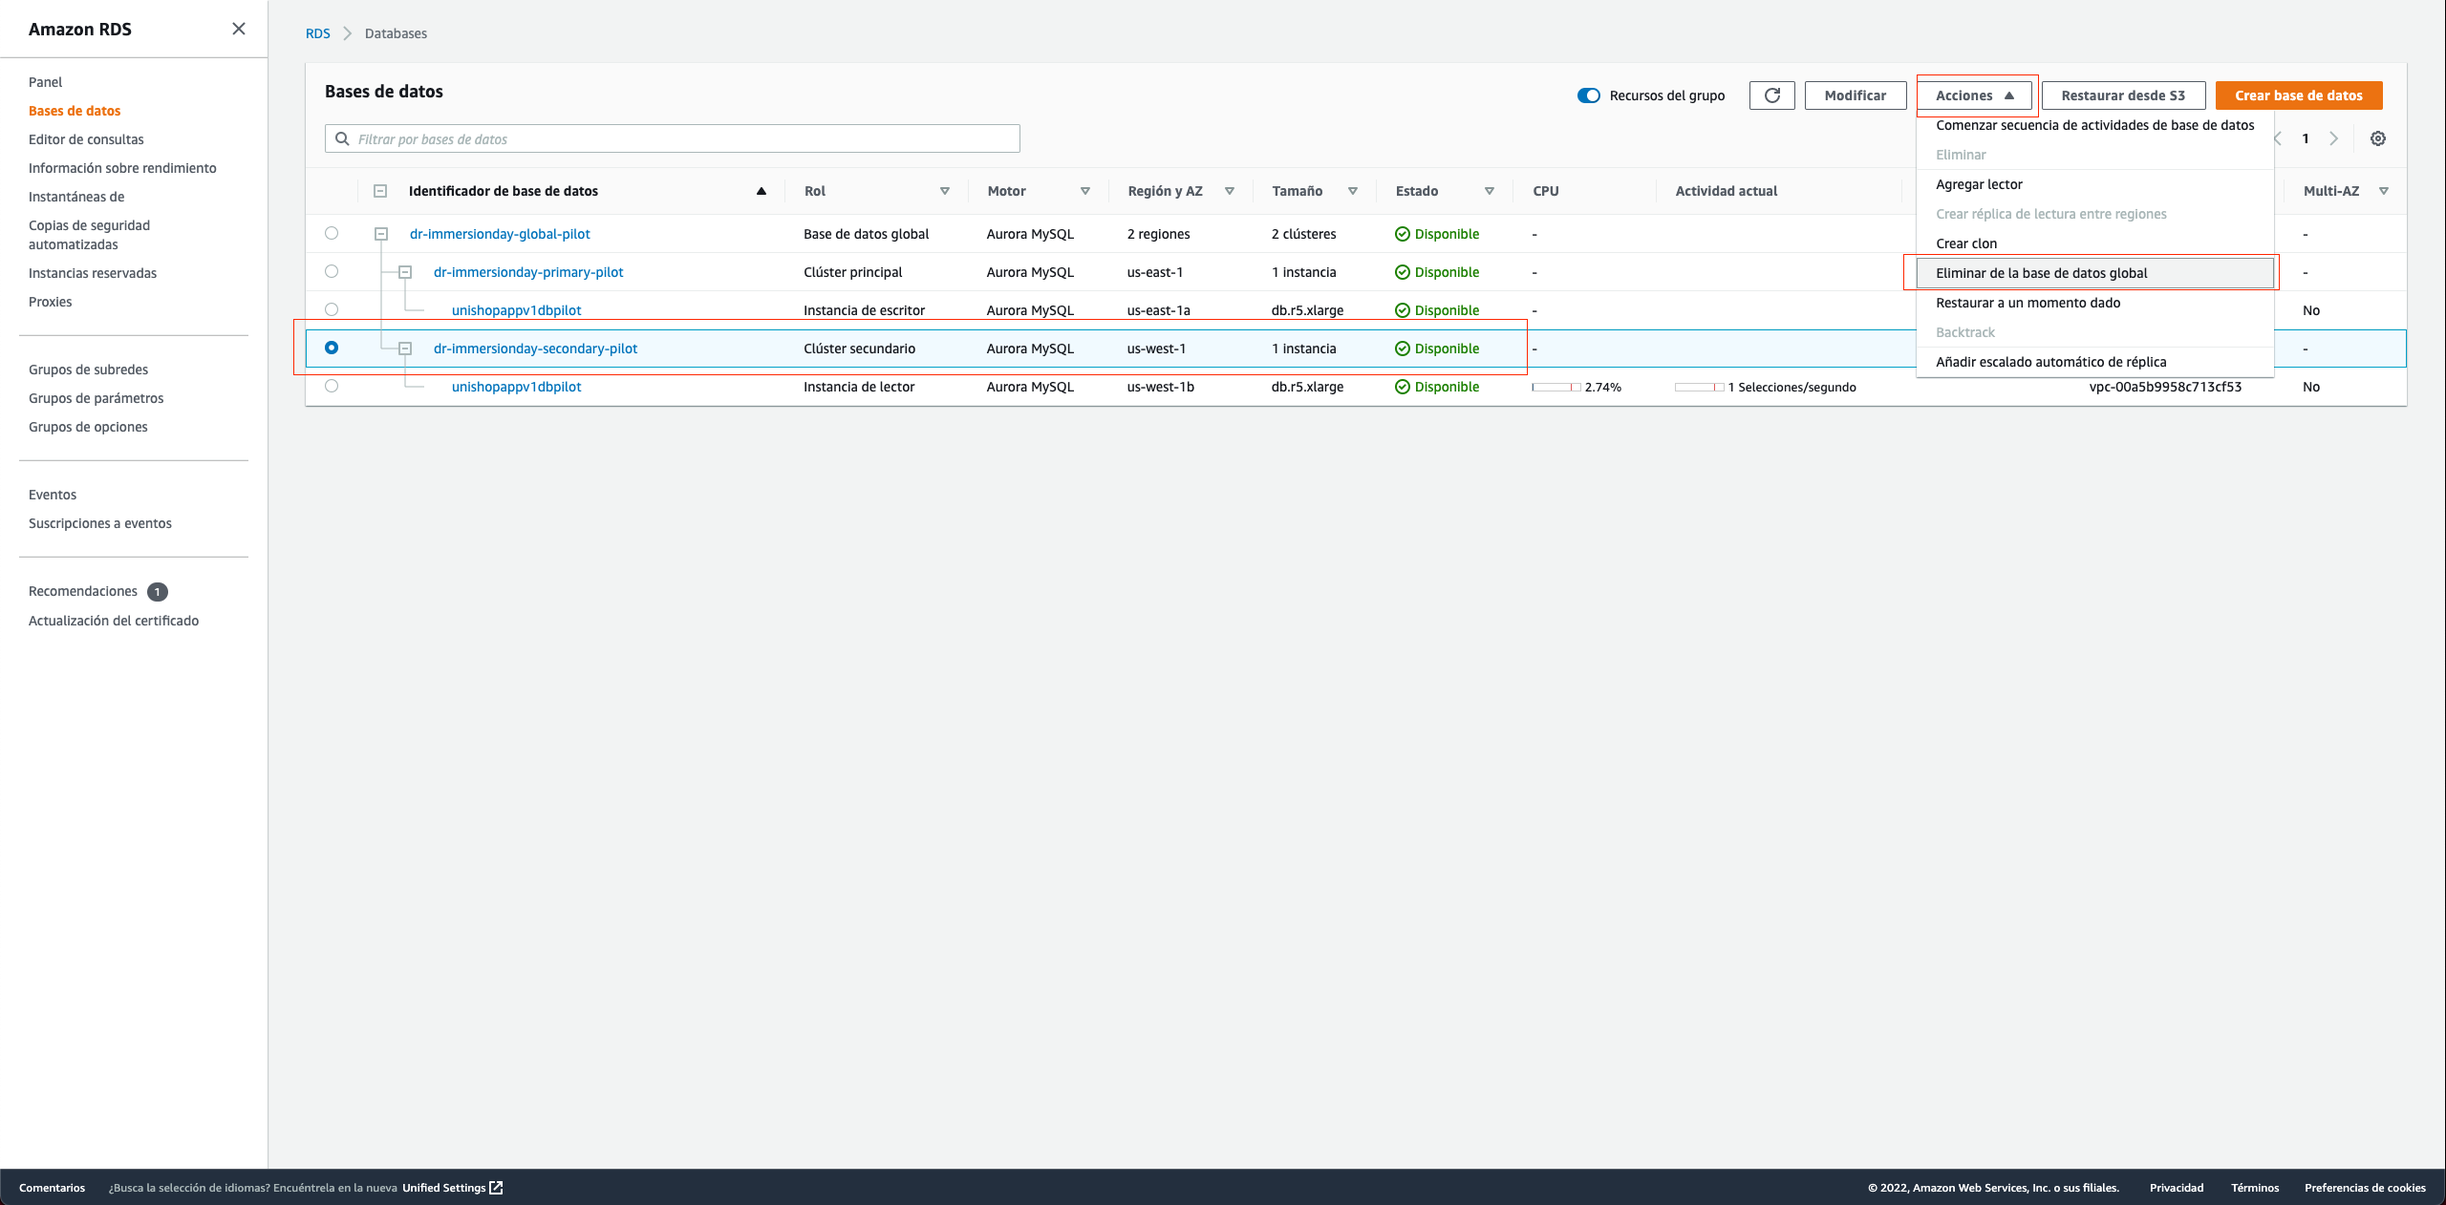
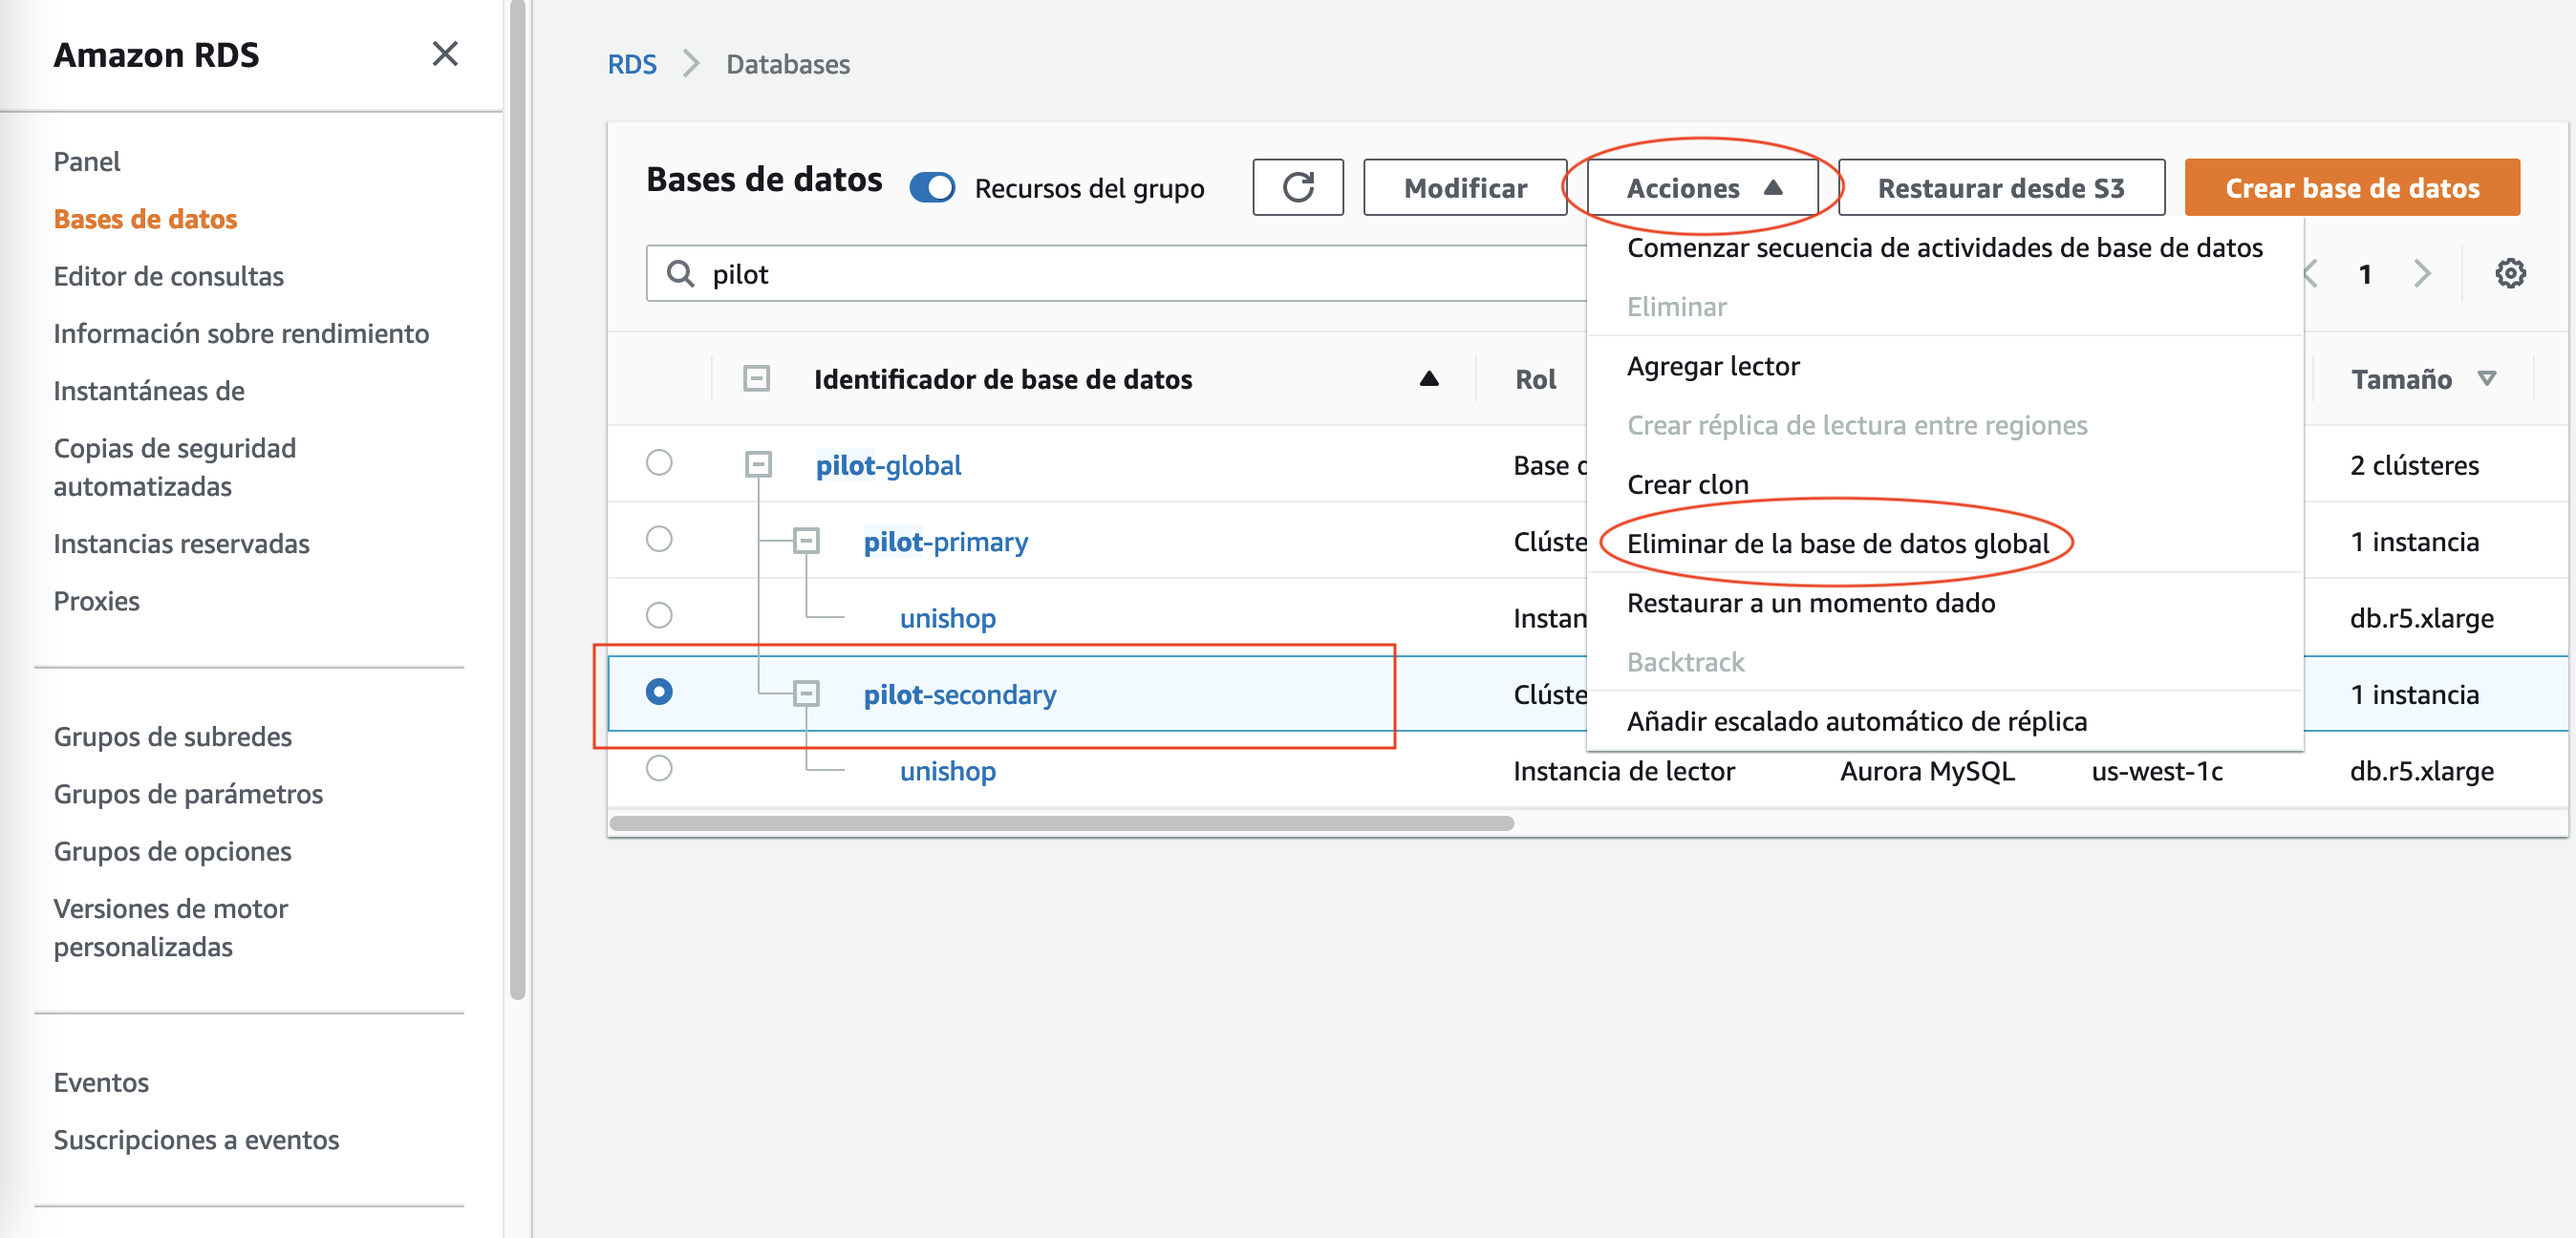
Completed translating Module 2 / section 4-failover to spanish.

diff --git a/content/Reliability/Disaster Recovery/Workshop_2/4-failover/4.2-ec2/_index.es.md b/content/Reliability/Disaster Recovery/Workshop_2/4-failover/4.2-ec2/_index.es.md
@@ -1,26 +1,59 @@
 +++
-title = "Promover la aplicación en la región secundaria"
+title = "EC2"
 date =  2021-05-11T11:43:28-04:00
-weight = 4
+weight = 2
 +++
 
-1.1 Navegue a [CloudFormation Stacks](https://console.aws.amazon.com/cloudformation/home?region=us-west-1#/stacks/) en la región **N. California (us-west-1)**.
+### Desplegar EC2 
 
-1.2 Seleccione la pila **Pilot-Secondary** y oprima **Actualizar**.
+1.1 Oprima [AMIs](https://us-west-1.console.aws.amazon.com/ec2/v2/home?region=us-west-1#Images:visibility=owned-by-me) para navegar a la consola en la región **N. California (us-west-1)**.
 
-{{< img da-2-ES.png >}}
+1.2 Seleccione la pila **pilotAMI** y oprima **Lanzar instancia a partir de una AMI**.
 
-1.3 Escoja **Usar plantilla actual** y oprima el botón **Siguiente**.
+{{< img pa-1-ES.png >}}
 
-{{< img da-3-ES.png >}}
+1.3 Escriba `pilot-secondary` bajo **Nombre**.
 
-1.4 Actualice el parámetro **IsPromote** a `yes` y oprima **Siguiente**.
+{{< img pa-2-ES.png >}}
 
-{{< img da-4-ES.png >}}
+1.4 Desplácese a la sección **Par de claves (inicio de sesión)** y seleccione **ee-default-keypair** como el **Nombre del par de claves**.
 
-1.5 Desplacese al final de la página, oprima la casilla de confirmación para reconocer la creación de recursos IAM y oprima **Actualizar pila**.
+{{< img pa-3-ES.png >}}
 
-{{< img da-5-ES.png >}}
+1.5 En la sección de **Configuraciones de red** oprima el botón **Editar**.
+
+{{< img pa-6-ES.png >}}
+
+1.6 Seleccione **pilot-secondary** con el VPC **VPC**. Seleccione **Seleccionar un grupo de seguridad existente** bajo la sección **Firewall (grupos de seguridad)** en **Grupos de seguridad comunes**.
+
+{{< img pa-7-ES.png >}}
+
+1.6 Bajo **Detalles avanzados** seleccione **pilot-secondary-S3InstanceProfile-xxx** como **Perfil de instancia de IAM**.
+
+{{< img pa-4-ES.png >}}
+
+1.7 Vamos a _bootstrap_ la instancia de EC2 para que tenga todas las configuraciones necesarias para nuestra aplicación Unishop en la región de **N. California (us-west-1)**. Utilizaremos los [datos de usuario](https://docs.aws.amazon.com/es_es/AWSEC2/latest/UserGuide/user-data.html) para inicializar la instancia.
+
+Copie y pegue el siguiente _script_ como **datos de usuario**, luego oprima **Lanzar instancia**.
+
+**Script Datos de usuario**:
+{{% expand "Click here to see the user data:" %}}
+
+```bash
+#!/bin/bash     
+sudo su ec2-user                        
+export AWS_DEFAULT_REGION=$(curl -s http://169.254.169.254/latest/dynamic/instance-identity/document | python -c "import json,sys; print json.loads(sys.stdin.read())['region']")
+export DATABASE=$(aws rds describe-db-clusters --region $AWS_DEFAULT_REGION --db-cluster-identifier pilot-secondary --query 'DBClusters[*].[Endpoint]' --output text)
+sudo bash -c "cat >/home/ec2-user/unishopcfg.sh" <<EOF
+#!/bin/bash
+export DB_ENDPOINT=$DATABASE
+EOF
+sudo systemctl restart unishop
+```
+{{% /expand %}}
+
+{{< img pa-5-ES.png >}}
+
 
 {{< prev_next_button link_prev_url="../4.1-aurora" link_next_url="../../5-verify-secondary/"  button_next_text="Siguiente paso" button_prev_text="Paso anterior"/>}}
 

diff --git a/content/Reliability/Disaster Recovery/Workshop_2/4-failover/4.1-aurora/_index.es.md b/content/Reliability/Disaster Recovery/Workshop_2/4-failover/4.1-aurora/_index.es.md
@@ -1,12 +1,16 @@
 +++
 title = "Promover Aurora"
 date =  2021-05-11T11:43:28-04:00
-weight = 6
+weight = 1
 +++
 
-La base de datos Global de Aurora está diseñada para aplicaciones globalmente distribuidas, permitiendo que una única base de datos Aurora pueda expandirse a través de múltiples regiones de AWS. Su información es replicada sin que esto impacte el rendimiento de la base de datos, permite lecturas locales rápidas con poca latencia para cada regiœn y ofrece recuperación de desastres a un nivel regional. En situaciones de recuperación de desastres, puede promover la región secundaria para que se encargue de las responsabilidades de lectura y escritura en menos de un minuto.
+La base de datos Global de Aurora está diseñada para aplicaciones globalmente distribuidas, permitiendo que una única base de datos Aurora pueda expandirse a través de múltiples regiones de AWS. Su información es replicada sin que esto impacte el rendimiento de la base de datos, permitiendo lecturas locales rápidas con poca latencia para cada región y ofrece recuperación de desastres causadas por fallas a nivel regional. En situaciones de recuperación de desastres, puede promover la región secundaria para que se encargue de las responsabilidades de lectura y escritura en menos de un minuto.
 
-Ahora, promovamos la base de datos secundaria de Amazon Aurora MySQL a una instancia independiente.
+Bases de datos globales de Aurora nos brinda dos opciones para _failover_ dependiendo del escenario.
+
+En éste _workshop_ seguiremos[Recuperación de una base de datos global Amazon Aurora de una interrupción no planificada](https://docs.aws.amazon.com/es_es/AmazonRDS/latest/AuroraUserGuide/aurora-global-database-disaster-recovery.html).
+
+### Promover Aurora
 
 1.1 Navegue a [RDS](https://us-west-1.console.aws.amazon.com/rds/home?region=us-west-1#/) en la región **N. California (us-west-1)**.
 
@@ -14,7 +18,7 @@ Ahora, promovamos la base de datos secundaria de Amazon Aurora MySQL a una insta
 
 {{< img a-2-ES.png >}}
 
-1.3 Encuentre la instancia **dr-immersionday-secondary-pilot** y oprima **Acciones**. Después oprima la opción **Eliminar de la base de datos global** para promover la instancia a una base de datos independiente.
+1.3 Encuentre la instancia **pilot-secondary** y oprima **Acciones**. Después oprima la opción **Eliminar de la base de datos global** para promover la instancia a una base de datos independiente.
 
 {{< img a-3-ES.png >}}
 
@@ -22,6 +26,5 @@ Ahora, promovamos la base de datos secundaria de Amazon Aurora MySQL a una insta
 
 {{< img a-4.png >}}
 
-## Felicitaciones! Su base de datos secundaria de Amazon Aurora ahora es una base de datos independiente y puede convertirse en su base de datos primaria!
 
 {{< prev_next_button link_prev_url="../" link_next_url="../4.2-ec2/" button_next_text="Siguiente paso" button_prev_text="Paso anterior"/>}}

diff --git a/content/Reliability/Disaster Recovery/Workshop_2/4-failover/_index.es.md b/content/Reliability/Disaster Recovery/Workshop_2/4-failover/_index.es.md
@@ -4,8 +4,46 @@ date =  2021-05-11T11:43:28-04:00
 weight = 4
 +++
 
-Cuando un evento regional afecta la aplicación Unicorn en su región primaria **N. Virginia (us-east-1)**, queremos hacer un fail-over hacia la región secundaria **N. California (us-west-1)**.
+En el evento que un desastre afecte nuestra región primaria en **N. Virginia (us-east-1)**, querremos buscar habilitar nuestros recursos en la región secundaria  **N. California (us-west-1)**.
 
-Asumiremos que un evento regional de servicio ha ocurrido. En esta sección, haremos el failover de forma manual hacia la aplicación que corre en la región secundaria, **N. California (us-west-1)**. Puede considerar usar Amazon Route53 u otro DNS (Domain Name Services) para configurar las rutas de fail over en un escenario real. Adicionalmente, se puede automatizar el proceso de notificación acerca del funcionamiento de la aplicación.
+{{% notice note %}}
+Tomaremos una serie de acciones **manuales** para failover nuestros recursos a nuestra región secundaria **N California (us-west-1)**.
+En un ambiente de producción éstas acciones serian automatizadas como parte del proceso de failover.
+{{% /notice %}}
 
-{{< prev_next_button link_prev_url="../3-prepare-secondary/3.1-ec2" button_next_text="Siguiente paso" button_prev_text="Paso anterior"/>}}
+### Simulando un evento regional de servicio
+
+Simularemos que un evento regional de servicio ha ocurrido y está afectando nuestro sitio web de Unishop en **N. Virginia (us-east-1)**. Ésto será logrado deshabilitando el acceso público a nuestro bucket de S3 que sirve nuestro sitio web, rindiendolo inaccesible.
+
+1.1 Oprima [S3](https://console.aws.amazon.com/s3/home?region=us-east-1#/) para navegar a la consola.
+
+1.2 Oprima el enlace **pilot-primary-uibucket-xxxx**.
+
+{{< img f-1-ES.png >}}
+
+1.3 Oprima el enlace **Permisos**. Oprima **Ediatr** en la sección **Bloquear acceso público (configuración del bucket)** .
+
+{{< img f-2-ES.png >}}
+
+1.4 Habilite el checkbox **Bloquear _todo_ el acceso público**, luego orpima **Guardar cambios**.
+
+{{< img f-3-ES.png >}}
+
+1.5 Escriba `confirmar` y luego oprima el botón **Confirmar**
+
+{{< img d-8-ES.png >}}
+
+1.6 Oprima el enlace **Propiedades**
+
+{{< img f-4-ES.png >}}
+
+1.7 Dentro de la página de propiedades, desplácese hacia abjao hasta encontrar la sección **Alojamiento de sitios web estáticos** y orpima el enlance **Alojamiento de sitios web estáticos**.
+
+{{< img f-5-ES.png >}}
+
+1.8 Debe recibir el error **403 Forbidden**.
+
+{{< img d-9.png >}}
+
+
+{{< prev_next_button link_prev_url="../3-prepare-secondary/3.1-ec2" link_next_url="./4.1-aurora/" button_next_text="Siguiente paso" button_prev_text="Paso anterior"/>}}
